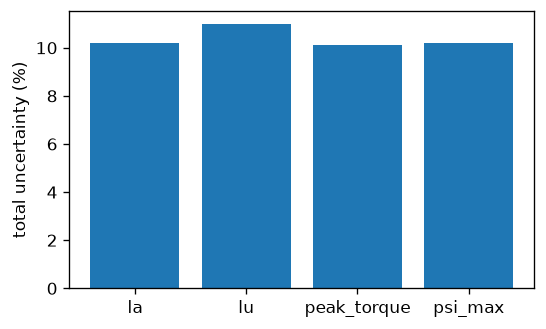
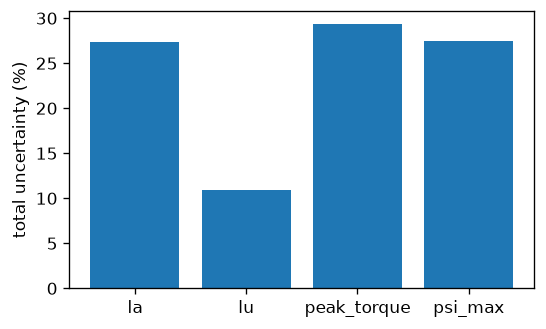
validation: 8/6 budget with the measured gap
Totals: La 27.41 %, Lu 10.98 %, peak torque 29.32 %, psi_max 27.42 %. Report PASS.
The stored run predates 0.7.0 in VALIDATED_VERSIONS, so engine_version and the label also move to pass.

diff --git a/docs/validation-report.md b/docs/validation-report.md
@@ -105,11 +105,11 @@ srmcore 0.7.0.
 
 ## EM validation (8/6 full)
 
-Engine 0.7.0, label: none, grades {'stator': 'C', 'rotor': 'C'}, map 695 s, validation 289 s.
+Engine 0.7.0, label: 2D-verified, grades {'stator': 'C', 'rotor': 'C'}, map 707 s, validation 284 s.
 
 | Check | Status | Value | Limit | Detail |
 |---|---|---|---|---|
-| engine_version | fail | — | — | srmcore 0.7.0; validated versions: 0.4.0 |
+| engine_version | pass | — | — | srmcore 0.7.0; validated versions: 0.4.0, 0.7.0 |
 | preset | pass | — | — | map preset full, design preset full; the label needs full or reference |
 | map_identity | pass | — | — | map design hash 3e236049813f230f, this design 3e236049813f230f |
 | no_filled_points | pass | 0 | 0 | points replaced by interpolation after a non-converged solve |
@@ -131,9 +131,9 @@ Uncertainty budget (worst case, % of the corrected value):
 | corrected value | 0.0329986 | 0.00371827 | 12.4356 | 0.322893 |
 | mesh | 0.12 | 0.16 | 0.12 | 0.03 |
 | material | 9.96 | 9.65 | 10.00 | 9.92 |
-| end_effect | 0.13 | 1.16 | 0.00 | 0.27 |
+| end_effect | 17.33 | 1.16 | 19.20 | 17.47 |
 | digitisation | 0.00 | 0.00 | 0.00 | 0.00 |
-| **total** | **10.21** | **10.98** | **10.12** | **10.22** |
+| **total** | **27.41** | **10.98** | **29.32** | **27.42** |
 
 ![budget](validation/budget.png)
 
